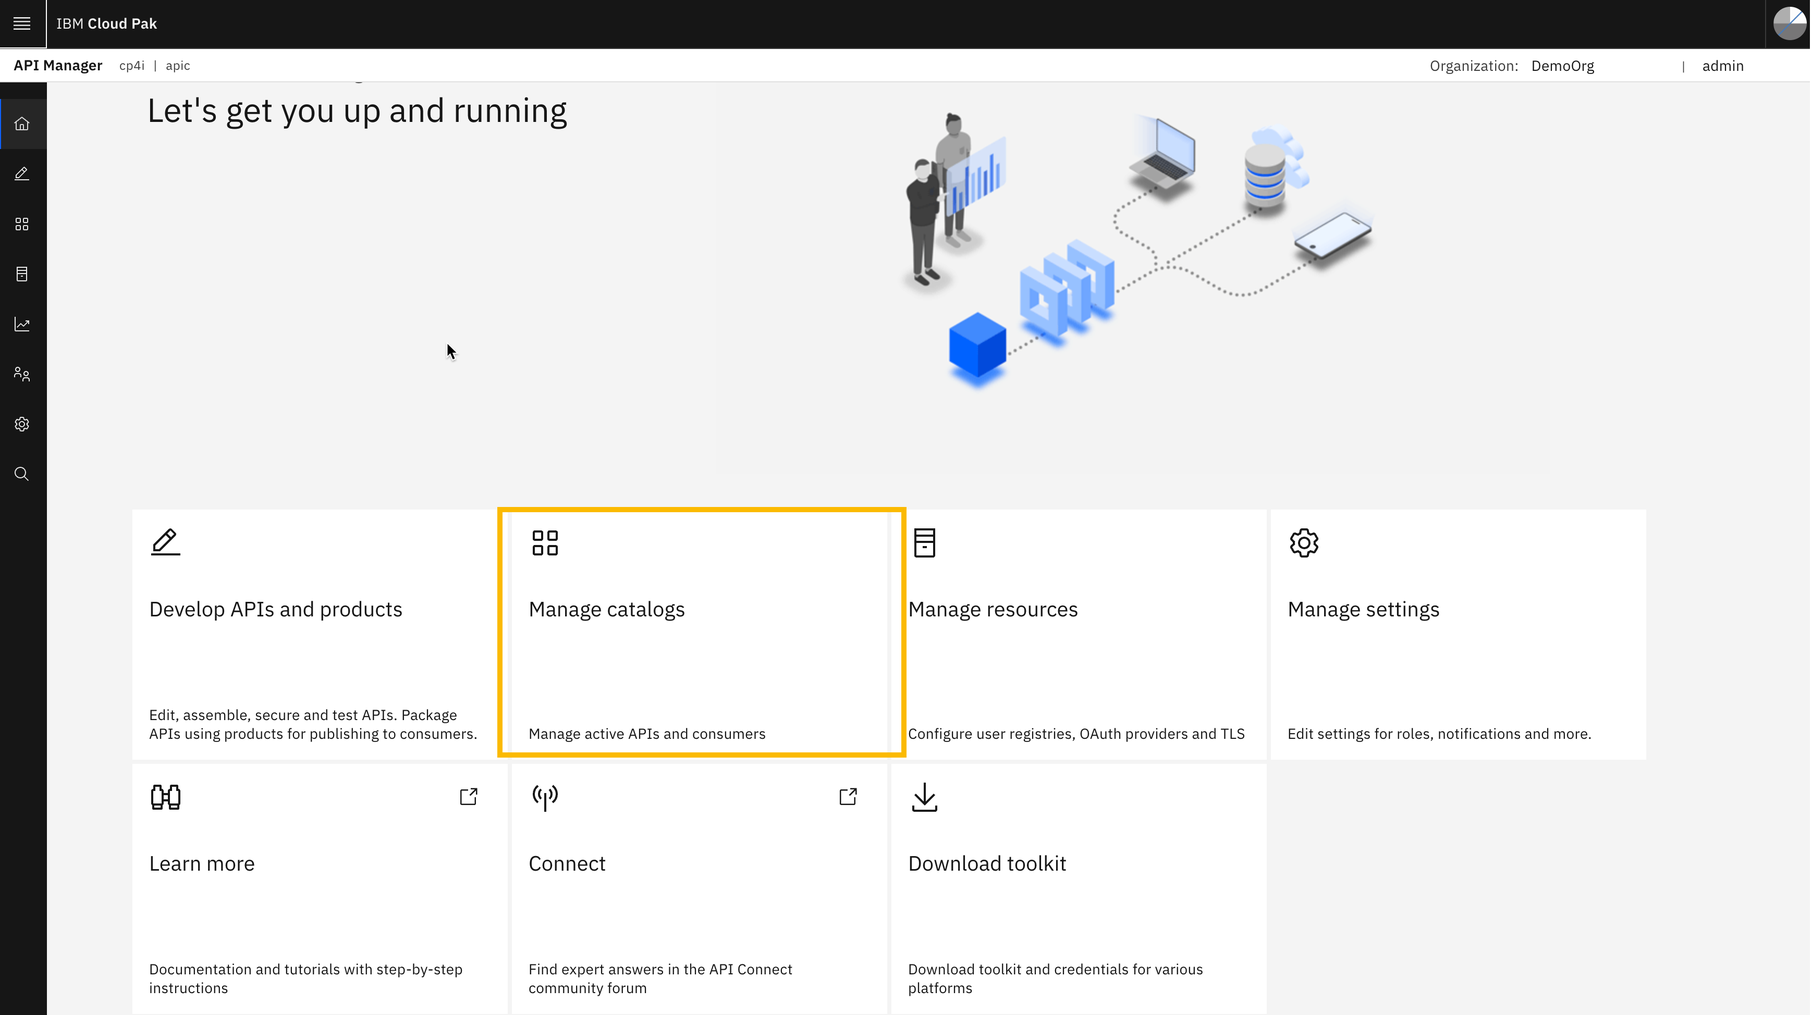
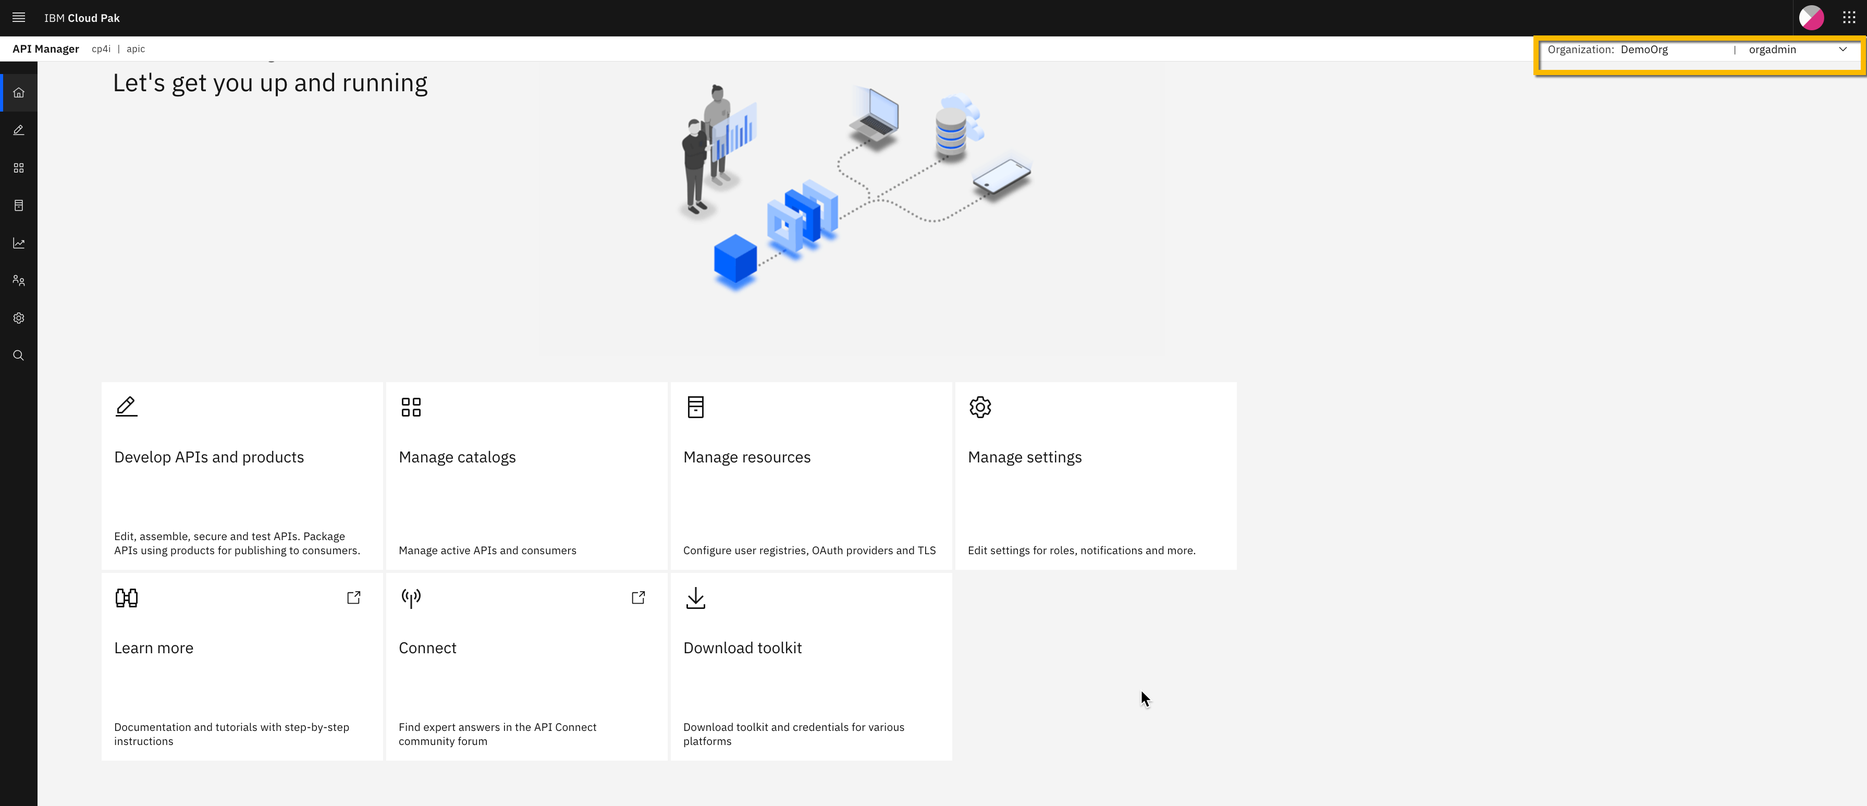
api connect
apiconnect

diff --git a/apiSetup.html b/apiSetup.html
@@ -405,31 +405,45 @@
                                     </li>
                                 </ol>
                                 <ol>
-                                    <li>From the Integration Instances view click on the "apic" link for the  API management adminstration instance.</li>
-                                    <img src="img/API-mgmt-sub.png" alt="API management administration" width="80%"></br></br>
-                                    <li>Login continuing with the Cloud Manager "Common Services User Registry". This will allow us to continue as the default created "admin" user.</li>
+                                    <li>From the Integration Instances view click on the "apic" link for the API
+                                        management adminstration instance.</li>
+                                    <img src="img/API-mgmt-sub.png" alt="API management administration"
+                                        width="80%"></br></br>
+                                    <li>Login continuing with the Cloud Manager "Common Services User Registry". This
+                                        will allow us to continue as the default created "admin" user.</li>
                                     <img src="img/cloud-manager.png" alt="Cloud Manager Login" width="80%"></br></br>
                                     <li>Click on the "Manage Resources" tile.</li>
                                     <img src="img/manage-resources.png" alt="Manager Resources" width="80%"></br></br>
-                                    <li>From the Resoruces view select "Notifications" from the menu. In the Notifications view click the "Create" Button.</li>
-                                    <img src="img/manage-resources-notifications.png" alt="Manager Resources Notifications" width="80%"></br></br>
+                                    <li>From the Resoruces view select "Notifications" from the menu. In the
+                                        Notifications view click the "Create" Button.</li>
+                                    <img src="img/manage-resources-notifications.png"
+                                        alt="Manager Resources Notifications" width="80%"></br></br>
                                     <li>Enter the mail server settings from the Mail Trap SMTP settings.</li>
-                                    <img src="img/mailserver-settings.png" alt="Mail Server Settings" width="80%"></br></br>
+                                    <img src="img/mailserver-settings.png" alt="Mail Server Settings"
+                                        width="80%"></br></br>
                                     <li>Test the connection by sending a test email.</li>
                                     <img src="img/test-mail.png" alt="Test Email semd to" width="80%"></br></br>
                                     <li>Once complete the test email sent will be confirmed.</li>
                                     <img src="img/test-mail-2.png" alt="Test Email semd to" width="80%"></br></br>
                                     <li>Return to the mail trap inbox and you can view the test mail sent.</li>
-                                    <img src="img/test-mail-out.png" alt="Test email recved in mail trap" width="80%"></br></br>
+                                    <img src="img/test-mail-out.png" alt="Test email recved in mail trap"
+                                        width="80%"></br></br>
                                     <li>Click the setings (cog) button on the left hand icon menu.</li>
-                                    <img src="img/cloud-manager-settings.png" alt="Change the Mail Server Settings" width="80%"></br></br>
-                                    <li>Click the Notifications submenu in the Settings view. Click the Edit button to edit the mail server settings.</li>
-                                    <img src="img/cloud-manager-notifications.png" alt="Cloud Manager Settings Notifications" width="80%"></br></br>
+                                    <img src="img/cloud-manager-settings.png" alt="Change the Mail Server Settings"
+                                        width="80%"></br></br>
+                                    <li>Click the Notifications submenu in the Settings view. Click the Edit button to
+                                        edit the mail server settings.</li>
+                                    <img src="img/cloud-manager-notifications.png"
+                                        alt="Cloud Manager Settings Notifications" width="80%"></br></br>
                                     <li>Select the new mail server thta was just defined and save the the change.</li>
-                                    <img src="img/cloud-manager-edit-email-server.png" alt="Edit Mail Server Settings" width="80%"></br></br>
+                                    <img src="img/cloud-manager-edit-email-server.png" alt="Edit Mail Server Settings"
+                                        width="80%"></br></br>
                                     <li>Saved changes to mailserver.</li>
-                                    <img src="img/cloud-manager-mail-server-saved.png" alt="Saved Mail Server Settings" width="80%"></br></br>
-                                    <li>Saved changes to mailserver.No Click on the Home Icon from the Icon Menu this will take us to the Home view for the catalog manager which is where the next section will begin.</li>
+                                    <img src="img/cloud-manager-mail-server-saved.png" alt="Saved Mail Server Settings"
+                                        width="80%"></br></br>
+                                    <li>Saved changes to mailserver.No Click on the Home Icon from the Icon Menu this
+                                        will take us to the Home view for the catalog manager which is where the next
+                                        section will begin.</li>
                                 </ol>
                             </ol>
                             <ol>
@@ -439,54 +453,138 @@
                                         <h4>Create Provider Organization and Catalog</h4>
                                     </li>
                                 </ol>
-                                <p class="mb-0">In this section we will create a provider orgnanization, catalog, and Developer Portal. Which will be used later in the creation and publising of APIs.
+                                <p class="mb-0">In this section we will create a provider orgnanization, catalog, and
+                                    Developer Portal. Which will be used later in the creation and publising of APIs.
                                 </p></br></br>
                                 <ol>
-                                    <li>From the Cloud Manager howm view click on the Manage Organizations tile. You could also click on the Provider organizations Icon from the Icon menu.</li>
-                                    <img src="img/cloud-manager-manage-org.png" alt="Cloud Manager Manage Organizations" width="80%"></br></br>
+                                    <li>From the Cloud Manager howm view click on the Manage Organizations tile. You
+                                        could also click on the Provider organizations Icon from the Icon menu.</li>
+                                    <img src="img/cloud-manager-manage-org.png" alt="Cloud Manager Manage Organizations"
+                                        width="80%"></br></br>
                                     <li>Click on the add button to begin creating the new provider organization.</li>
-                                    <img src="img/cloud-manager-add-provider-organization.png" alt="Add New provider Organization" width="80%"></br></br>
-                                    <li>Enter the name of the Organization details and the Organization Owner. In this simple demo we will persist with using the admin user as the owner. When the data is entered click Create button.</li>
-                                    <img src="img/cloud-manager-create-organization.png" alt="Create Organization" width="80%"></br></br>
-                                    <li>Change from the Cloud Manager to the API Manager. Click on the IBM Cloud Pak image button on the top left corner of the Cloud Manager. Once </li>
-                                    <img src="img/cloud-manager-switch-api-manager.png" alt="Navigate to Cloud Pak Home Page" width="80%"></br></br>
-                                    <li>In the Cloud Pak UI home page, click on the "Design APIs" menu link, this will launch the API Manager. Note you may or may not be promted for login. The provider organisation we created uses admin user which is part of the Common Services User Registry.</li>
-                                    <img src="img/cloud-pak-ui-design-apis.png" alt="Navigate to Design APIs" width="80%"></br></br>
-                                    <li>When the API Manager opens confirm the provider organization (DemoOrg) and user (admin) are correct. </li>
-                                    <img src="img/api-manager-home.png" alt="API Manger Home Page" width="80%"></br></br>
-                                    <li>For creating the developer portal the Organization Owner must have a email address. The admin id does not have an address at this potin so we will modify the settings now to add an email address to the owner. </li>
-                                    <img src="img/api-manager-myaccount-menu.png" alt="API Manger My Account" width="80%"></br></br>
-                                    <li>Enter a email address into the email field. Note emails will not actually be sent to this address as we are trapping them in the mail trap setup earlier.</li>
-                                    <img src="img/api-manager-account-edit.png" alt="API Manger Account Edit" width="80%"></br></br>
-                                    <li>Click Save once email address is set</li>.
-                                    <img src="img/api-manager-account-saved.png" alt="API Manger Account Edit" width="80%"></br></br>
+                                    <img src="img/cloud-manager-add-provider-organization.png"
+                                        alt="Add New provider Organization" width="80%"></br></br>
+                                    <li>Enter the name of the Organization details and the Organization Owner. In this
+                                        simple demo we will create a new user to be the Organization Admin.</li>
+                                    <pre>
+                                        <table>
+                                            <tr>
+                                                <td>Title</td>
+                                                <td>:</td>
+                                                <td>DemoOrg</td>
+                                            </tr>
+                                            <tr>
+                                                <td>User Registry</td>
+                                                <td>:</td>
+                                                <td>API Manager Local User Registry</td>
+                                            </tr>
+                                            <tr>
+                                                <td>Type of user</td>
+                                                <td>:</td>
+                                                <td>New User</td>
+                                            </tr>
+                                            <tr>
+                                                <td>Username</td>
+                                                <td>:</td>
+                                                <td>orgadmin</td>
+                                            </tr>
+                                            <tr>
+                                                <td>Email</td>
+                                                <td>:</td>
+                                                <td>orgadmin@demoorg.org</td>
+                                            </tr>
+                                            <tr>
+                                                <td>First Name</td>
+                                                <td>:</td>
+                                                <td>Admin</td>
+                                            </tr>
+                                            <tr>
+                                               <td>Last Name</td>
+                                                <td>:</td>
+                                                <td>Admin</td>
+                                             </tr>
+                                            <tr>
+                                                <td>Password</td>
+                                                <td>:</td>
+                                                <td>Use the password from you ocpadmin user</td>
+                                            </tr>
+                                        </table>
+                                    </pre>
+                                    <img src="img/cloud-manager-create-organization.png" alt="Create Organization"
+                                        width="80%"></br></br>
+                                    <li>Change from the Cloud Manager to the API Manager. Click on the IBM Cloud Pak
+                                        image button on the top left corner of the Cloud Manager. Once </li>
+                                    <img src="img/cloud-manager-switch-api-manager.png"
+                                        alt="Navigate to Cloud Pak Home Page" width="80%"></br></br>
+                                    <li>In the Cloud Pak UI home page, click on the "Design APIs" menu link, this will
+                                        launch the API Manager. Note you may or may not be promted for login. The
+                                        provider organisation we created uses admin user which is part of the Common
+                                        Services User Registry.</li>
+                                    <img src="img/cloud-pak-ui-design-apis.png" alt="Navigate to Design APIs"
+                                        width="80%"></br></br>
+                                    <li>When the API Manager opens you will still be loggd in as admin user we need to sitch the account and slect the DemoOrg provider organization.</li>
+                                    <li>Select Switch Account in the top right hand side of the API Manager.</li>
+                                    <img src="img/api-manager-switch-account.png" alt="API Manger Switch account"
+                                        width="80%"></br></br>
+                                    <li>Click on the Continue with "API Manager User Registry" button.</li>
+                                    <img src="img/api-manager-login-api-user-registry.png" alt="API Manger API User Registry"
+                                            width="80%"></br></br>
+                                    <li>Login with the Orgadmin usename and password used when creating the organization.</li>
+                                    <img src="img/api-manager-login-orgadmin.png" alt="API Manger API User Registry OrgAdmin"
+                                                    width="80%"></br></br>
+                                    <li>Confirm the login with the Organization:DemoOrg and User:orgadmin.</li>
+                                    <img src="img/api-manager-home-small.png" alt="API Manger Home Page"
+                                        width="80%"></br></br>
                                     <li>Click on the Manage Catalogs tile on the API Manager Home view.</li>
-                                    <img src="img/api-manager-manage-catalog.png" alt="API Manager Manage Catalogs" width="80%"></br></br>
+                                    <img src="img/api-manager-manage-catalog.png" alt="API Manager Manage Catalogs"
+                                        width="80%"></br></br>
                                     <li>Click Add on the Manage catalog view.</li>
-                                    <img src="img/api-manager-manage-catalog-add.png" alt="Manage Catalog Add" width="80%"></br></br>
+                                    <img src="img/api-manager-manage-catalog-add.png" alt="Manage Catalog Add"
+                                        width="80%"></br></br>
                                     <li>Complete the Catalog definition and Click the create button.</li>
-                                    <img src="img/api-manager-create-catalog.png" alt="Manage Catalog Create" width="80%"></br></br>
+                                    <img src="img/api-manager-create-catalog.png" alt="Manage Catalog Create"
+                                        width="80%"></br></br>
                                     <li>Click the Demo Catalog tile</li>
-                                    <img src="img/api-manager-manage-catalog-demo.png" alt="Manage Catalog Demo Catalog" width="80%"></br></br>
-                                    <li>Click on the "Catalog Settings" Tab and then Select the "Portal" settings from the left hand menu. Click the Create button to setup the Developer Portal for the catalog.</li>
-                                    <img src="img/api-manager-demo-catalog.png" alt="API Manager Demo Catalog" width="80%"></br></br>
+                                    <img src="img/api-manager-manage-catalog-demo.png" alt="Manage Catalog Demo Catalog"
+                                        width="80%"></br></br>
+                                    <li>Click on the "Catalog Settings" Tab and then Select the "Portal" settings from
+                                        the left hand menu. Click the Create button to setup the Developer Portal for
+                                        the catalog.</li>
+                                    <img src="img/api-manager-demo-catalog.png" alt="API Manager Demo Catalog"
+                                        width="80%"></br></br>
                                     <li>Select the portal-service from the select menu and click the Create button.</li>
-                                    <img src="img/api-manager-create-portal.png" alt="API Manager Create Portal" width="80%"></br></br>
-                                    <li>The portal service will be initiated it takes a few minutes to ready. After a few minutes try the URL. If the portal loads proceed to mailtrap and follow the instructions for setting the developer portal admin password.</li>
-                                    <img src="img/api-manager-developer-portal-created.png" alt="API Manager Portal Created" width="80%"></br></br>
-                                    <li>Wait some time then copy the Developer portal URL and paste it in a <b>new incognito browser</b>. This should help work around any insecure and certificate warnings.</li>
-                                    <img src="img/api-manager-developer-portal-url-copy.png" alt="API Manager Copy Portal URL" width="80%"></br></br>
+                                    <img src="img/api-manager-create-portal.png" alt="API Manager Create Portal"
+                                        width="80%"></br></br>
+                                    <li>The portal service will be initiated it takes a few minutes to ready. After a
+                                        few minutes try the URL. If the portal loads proceed to mailtrap and follow the
+                                        instructions for setting the developer portal admin password.</li>
+                                    <img src="img/api-manager-developer-portal-created.png"
+                                        alt="API Manager Portal Created" width="80%"></br></br>
+                                    <li>Wait some time then copy the Developer portal URL and paste it in a <b>new
+                                            incognito browser</b>. This should help work around any insecure and
+                                        certificate warnings.</li>
+                                    <img src="img/api-manager-developer-portal-url-copy.png"
+                                        alt="API Manager Copy Portal URL" width="80%"></br></br>
                                     <li>Click on the Show Advanced Button and Click proceed to site.</li>
-                                    <img src="img/developer-portal-proceed-to-site.png" alt="Developer Portal Proceed to Site" width="80%"></br></br>
-                                    <li>Once you see the home page for the portal proceed to the next step to complete the site setup by setting the admin password.</li>
-                                    <img src="img/developer-portal-home.png" alt="Developer Portal Home" width="80%"></br></br>
-                                    <li>Switch to the Mail Trap tab or if it was closed reopen and Log In to Mail Trap in new browser tab. In your Inbox you will see a email from the Developer Portal to setup the admin password.</li>
-                                    <img src="img/mailtrap-developer-portal-admin.png" alt="Mail Trap Developer Portal Admin" width="80%"></br></br>
+                                    <img src="img/developer-portal-proceed-to-site.png"
+                                        alt="Developer Portal Proceed to Site" width="80%"></br></br>
+                                    <li>Once you see the home page for the portal proceed to the next step to complete
+                                        the site setup by setting the admin password.</li>
+                                    <img src="img/developer-portal-home.png" alt="Developer Portal Home"
+                                        width="80%"></br></br>
+                                    <li>Switch to the Mail Trap tab or if it was closed reopen and Log In to Mail Trap
+                                        in new browser tab. In your Inbox you will see a email from the Developer Portal
+                                        to setup the admin password.</li>
+                                    <img src="img/mailtrap-developer-portal-admin.png"
+                                        alt="Mail Trap Developer Portal Admin" width="80%"></br></br>
                                     <li>Copy the link in the email and paste to new ingognito tab.</li>
                                     <li>Click Reset Button to continue.</li>
-                                    <img src="img/developer-portal-reset.png" alt="Developer Portal Reset" width="80%"></br></br>
-                                    <li>Set the new password. In this example copy the admin password from the Cloud pak Status tab of the configuration browser window. And then click Submit.</li>
-                                    <img src="img/developer-portal-admin-password-set.png" alt="Set Password" width="80%"></br></br>
+                                    <img src="img/developer-portal-reset.png" alt="Developer Portal Reset"
+                                        width="80%"></br></br>
+                                    <li>Set the new password. In this example copy the admin password from the Cloud pak
+                                        Status tab of the configuration browser window. And then click Submit.</li>
+                                    <img src="img/developer-portal-admin-password-set.png" alt="Set Password"
+                                        width="80%"></br></br>
                                     <li>This completes this section of the instruction for the API Connect.</li>
                                 </ol>
                             </ol>
